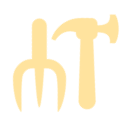
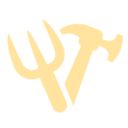
merge tabs: add engineers + investors

Changed region(s): [[0.0312, 0.0938, 0.9688, 0.9062], [0.5938, 0.2812, 0.6562, 0.375]]

diff --git a/mods/merge-tabs-jakob/README.md b/mods/merge-tabs-jakob/README.md
@@ -16,6 +16,7 @@ The mod merges tabs until there are only 7 left
 
 - Tourists + Scholars
 - Farmers + Workers
+- Engineers + Investors
 
 Generally, the order is just the one tab after the other.
 There are a few exceptions like streets that get pushed to the front to make the Farmer+Worker combination less awkward.
